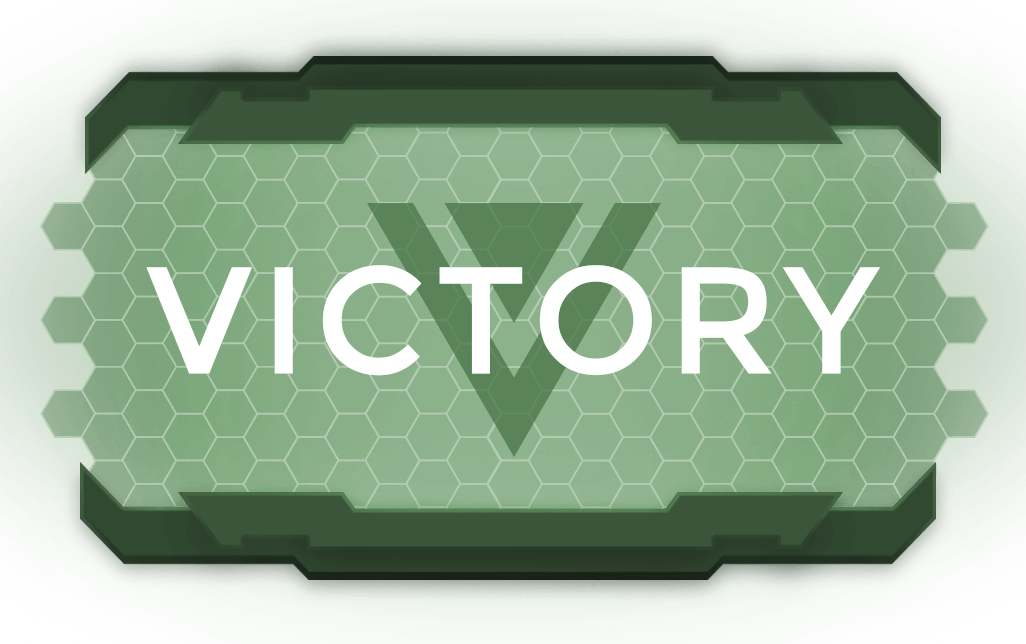
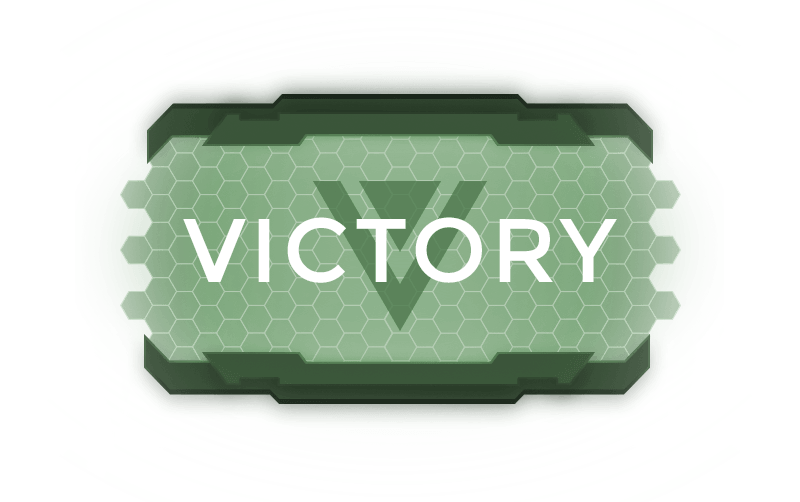
Fix

diff --git a/lib/game/game.js b/lib/game/game.js
@@ -28,13 +28,15 @@ var game = {
         console.log("Retrieved game in DB");
 
         // Re-set the game
-        self.id = lastGame._id;
-        self.board = lastGame.board;
-        self.alpha = lastGame.teams.alpha;
-        self.beta  = lastGame.teams.beta;
-        self.gamma = lastGame.teams.gamma;
-        self.ticks = lastGame.ticks;
+        self.id       = lastGame._id;
+        self.board    = lastGame.board;
+        mapper.map    = lastGame.map;
+        self.alpha    = lastGame.teams.alpha;
+        self.beta     = lastGame.teams.beta;
+        self.gamma    = lastGame.teams.gamma;
+        self.ticks    = lastGame.ticks;
         mapper.spawns = lastGame.spawns;
+
         self.sockets = require(__dirname+'/sockets.js');
         self.ticker();
         return;
@@ -59,6 +61,7 @@ var game = {
             willStartAt: Date.now() + conf.countdown*60*1000,
             ticks: self.ticks,
             board: self.board,
+            map: mapper.map,
             spawns: mapper.spawns,
             winner: null,
             teams: {
@@ -89,10 +92,10 @@ var game = {
       }
     );
     if (count%1000 === 0)
-      self.updateGameTeams()
+      self.updateGameTeams();
     if (count > 0) {
       setTimeout(function() {
-        self.waitFotStart(count-200)
+        self.waitFotStart(count-200);
       }, 200);
     }
     else {
@@ -149,8 +152,7 @@ var game = {
         game.sayYo();
         game.tweet(winner);
         console.log('The '+winner+' team wins');
-        self.saveMapState(winner, Date.now());
-        game.sockets.sendResult(winner, loosers);
+        self.saveMapState(winner, Date.now(), loosers);
 
         // start a new game in 5, 4, 3, 2, 1...
         setTimeout(function() {
@@ -159,7 +161,7 @@ var game = {
       }
       else {
         // update the map in DB every three minute
-        if (self.ticks%((5*60*3)) == 0)
+        if (self.ticks%((5*60*3)) === 0)
           self.saveMapState(null, null);
 
         // the delta can be negative (it's like 0)
@@ -205,8 +207,9 @@ var game = {
     ];
 
     // We don't want to tweet the same thing twice
+    var index;
     do {
-      var index = Math.floor(Math.random()*tweets.length);
+      index = Math.floor(Math.random()*tweets.length);
     } while (index === self.lastTweetIndex);
 
     var tweet = tweets[index];
@@ -281,9 +284,9 @@ var game = {
             if (tile.scores[team] >= 100) {
               tile.scores[team] = 100; // never goes higher
               tile.ownedBy = team;
-              for (var team in tile.players) {
-                for (var username in tile.players[team]) {
-                  player = self[team].players[username];
+              for (var _team in tile.players) {
+                for (var username in tile.players[_team]) {
+                  player = self[_team].players[username];
                   if (player.faction === 'engineer')
                     player.factions[player.faction].xp += 20;
                   else
@@ -735,7 +738,7 @@ var game = {
   },
 
   // save the map in the DB
-  saveMapState: function(winner, endDate) {
+  saveMapState: function(winner, endDate, loosers) {
     var self = this;
     var data = {
       endedAt: endDate,
@@ -747,12 +750,13 @@ var game = {
         beta: self.beta,
         gamma: self.gamma
       }
-    }
+    };
 
     // If the game is finished we wait for it to be saved (using co and yield)
     if (winner) {
       co(function*() {
         yield db.games.findAndModify({ _id: self.id }, { $set: data});
+        game.sockets.sendResult(winner, loosers);
       })();
     }
     // If the game is still running we just save it

diff --git a/assets/src/js/lobby.js b/assets/src/js/lobby.js
@@ -36,8 +36,15 @@ var lobby = {
       title.innerHTML = 'A new game will start very soon!';
     }
     else {
-      if (!games[0].ticks && games[0].willStartAt > Date.now())
+      if (!games[0].ticks && games[0].willStartAt > Date.now()) {
         title.innerHTML = 'Next game starting soon';
+        if (logged) {
+          join.addEventListener('click', function(e) {
+            e.preventDefault();
+            window.location.href = '/game';
+          });
+        }
+      }
       else
         title.innerHTML = 'A game is currently in progress';
 

diff --git a/assets/src/js/game.js b/assets/src/js/game.js
@@ -126,7 +126,7 @@ var game = {
         game.ready(game.player.team, game.player.bitly);
         panels.setTileStats(game.map[game.spawn]);
         game.currentTileStats = JSON.stringify(game.map[game.spawn]);
-        game.currentPosition = game.spawn
+        game.currentPosition = game.spawn;
       }
       if (game.firstTick) {
         _.$$('.countdown').classList.remove('show');
@@ -153,7 +153,7 @@ var game = {
     if (flashMessages.isVisible) flashMessages.hide();
     sounds.pFactionSelected();
   }
-}
+};
 
 
 module.exports = game;

diff --git a/assets/src/css/overlays.css b/assets/src/css/overlays.css
@@ -167,10 +167,10 @@ div.countdown {
   position: absolute;
   top: 50%;
   left: 50%;
-  width: 513px;
-  height: 322px;
-  margin-top: -161px;
-  margin-left: -257px;
+  width: 400px;
+  height: 251px;
+  margin-top: -126px;
+  margin-left: -200px;
   background-size: cover;
 }
   .alpha .victory {background-image: url('./imgs/game/red_victory.png')}

diff --git a/views/lobby.html b/views/lobby.html
@@ -9,7 +9,7 @@
   <link rel="stylesheet" href="/style.css">
 
   <script src="/socket.io/socket.io.js" defer></script>
-  <script src="app.js" defer></script>
+  <script src="/app.js" defer></script>
 </head>
 <body>
   <script>
